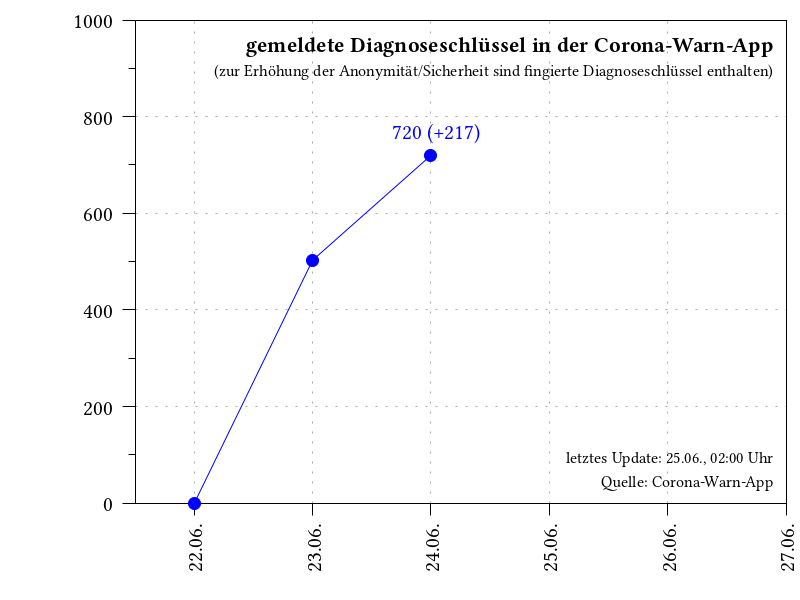
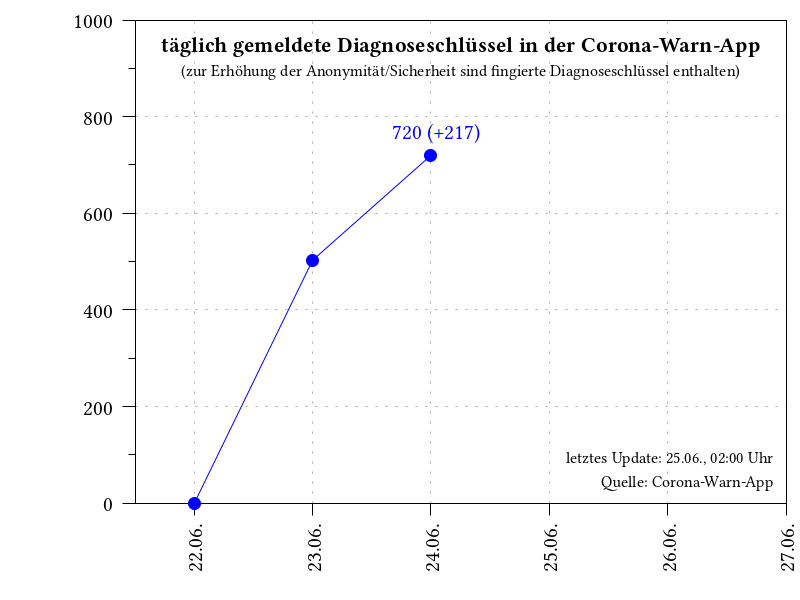
added graphs for sums

Changed region(s): [[0.1875, 0.06, 0.9688, 0.15]]

diff --git a/README.md b/README.md
@@ -1,11 +1,19 @@
 # dka
 Statistical analysis of the daily diagnosis keys of the German COVID-19 tracing app (Corona-Warn-App).
 
-## Number of diagnosis keys
-<img align="center" src="plot_keys.png">
+## Positively tested users who submitted diagnosis keys
 
-## Number of submitted diagnosis keys by positively tested persons
-<img align="center" src="plot_num_keys_submitted.png">
+Sum                               |  Per day
+:--------------------------------:|:----------------------------------:
+![](plot_sum_users.png)           |  ![](plot_num_users.png)
 
-## Number of users who submitted diagnosis keys
-<img align="center" src="plot_num_users.png">
+## Submitted diagnosis keys by positively tested persons
+Sum                               |  Per day
+:--------------------------------:|:----------------------------------:
+ ![](plot_sum_keys_submitted.png) |  ![](plot_num_keys_submitted.png)
+
+## Diagnosis keys
+Sum                               |  Per day
+:--------------------------------:|:----------------------------------:
+ ![](plot_keys_sum.png)           |  ![](plot_keys.png)
+ 
